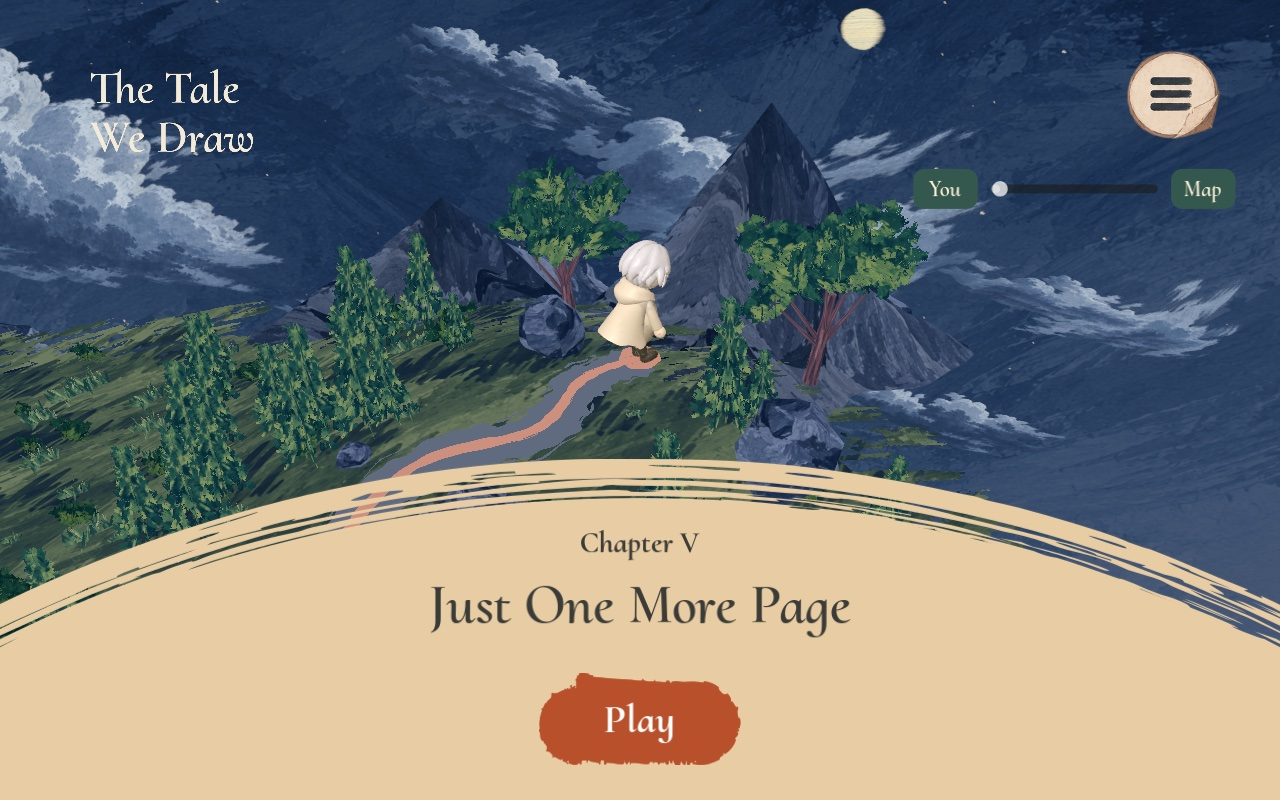
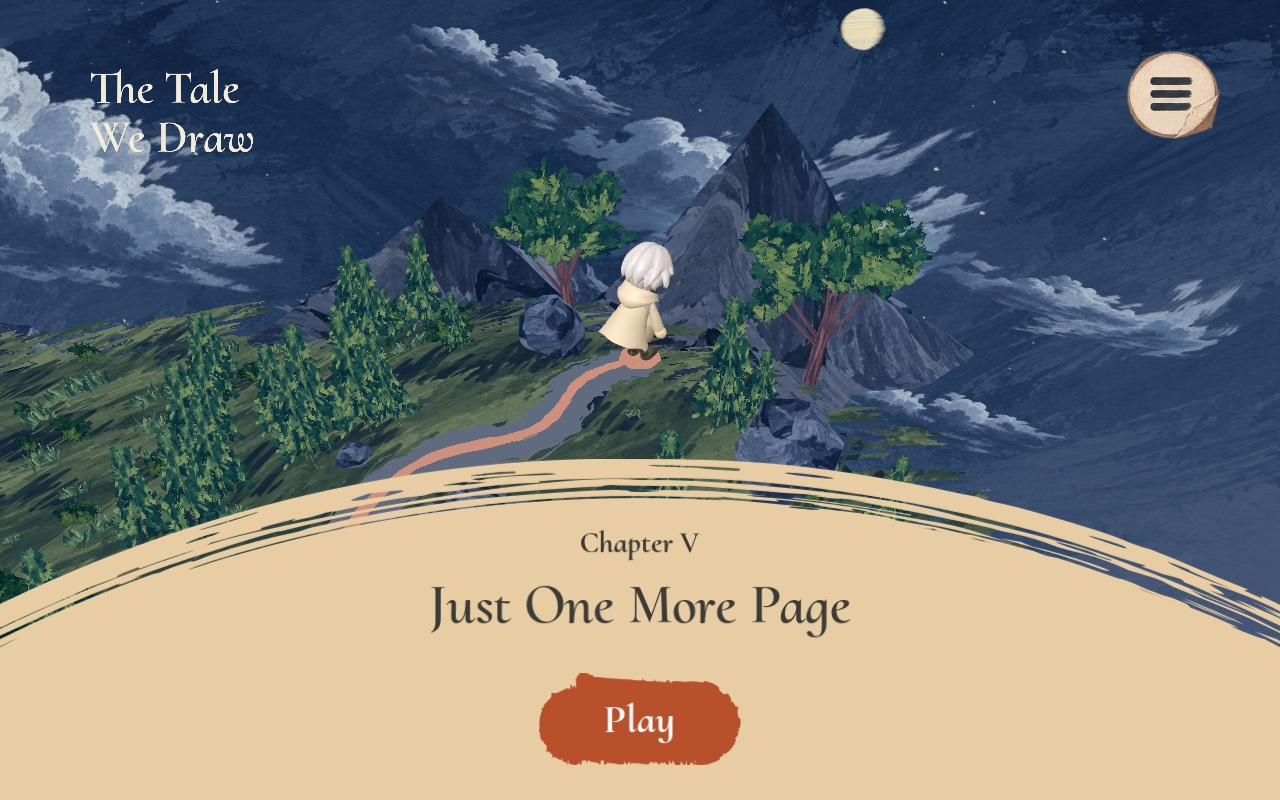
Remove map zoom toolbar while preserving direct zoom input

diff --git a/docs/3d_game/TITLE_UI.md b/docs/3d_game/TITLE_UI.md
@@ -14,6 +14,13 @@ Chapter II–V retain route travel and the day/evening/night palette changes bef
 showing the same paper entrance. Map browsing still returns to the existing
 chapter instance and uses **Return** on its card.
 
+The map has no You/Map buttons or zoom slider. While waiting on any chapter
+card, including Chapter I, use the mouse wheel, trackpad pinch, or +/− keys
+(including the numeric keypad) to zoom between the player and the full map.
+Zoom stays bounded and is disabled during chapter entrance/exit animations.
+`title_ui_smoke.gd`, `overworld_smoke.gd`, and `map_return_smoke.gd` verify
+keyboard, scroll, and pinch input, camera limits, and retained chapter state.
+
 | Chapter | Supplied title |
 | --- | --- |
 | I | The Other Side |
@@ -48,7 +55,7 @@ The supplied chapter SVG outlines match Upright Bold at 30 px for the chapter
 number, Upright SemiBold at 56 px for the title, and Upright Bold at 40 px for
 Play. Live cards use these values at the 1280 × 800 reference size. The two-line
 map title uses Upright SemiBold on both lines, with no italic substitution.
-Map zoom labels, end-page actions, and the keepsake spread also use Upright.
+End-page actions and the keepsake spread also use Upright.
 The supplied The End lettering remains in its original vector artwork.
 The earlier Cormorant Light/Italic variable fonts have been removed.
 The font correction passes `title_ui_smoke.gd`; native Forward+ captures verify

diff --git a/docs/SPEC.md b/docs/SPEC.md
@@ -1253,6 +1253,8 @@ then zoom toward Chapter I as curved paper, chapter text and Play enter together
 The hero walks up from below to the first marker. Apply the same chapter card
 presentation to all five chapters while retaining the established route travel
 and time-of-day progression. Wait for Play before entering gameplay.
+Remove the visible You/Map zoom controls; retain mouse-wheel, trackpad-pinch,
+and +/− keyboard zoom on every chapter map.
 
 Use the supplied The End artwork for the epilogue, retaining access to the
 existing journey recap, replay, and continued exploration. See
